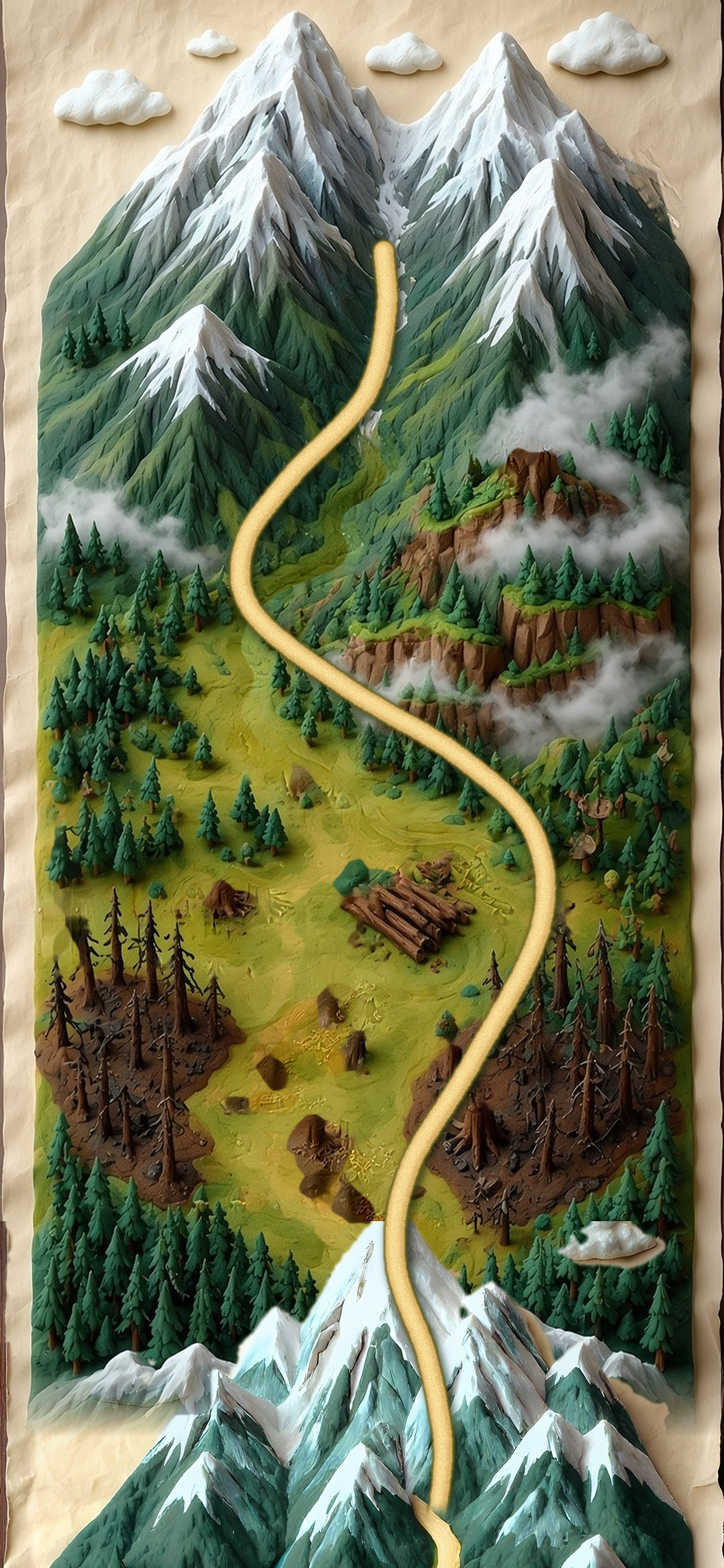
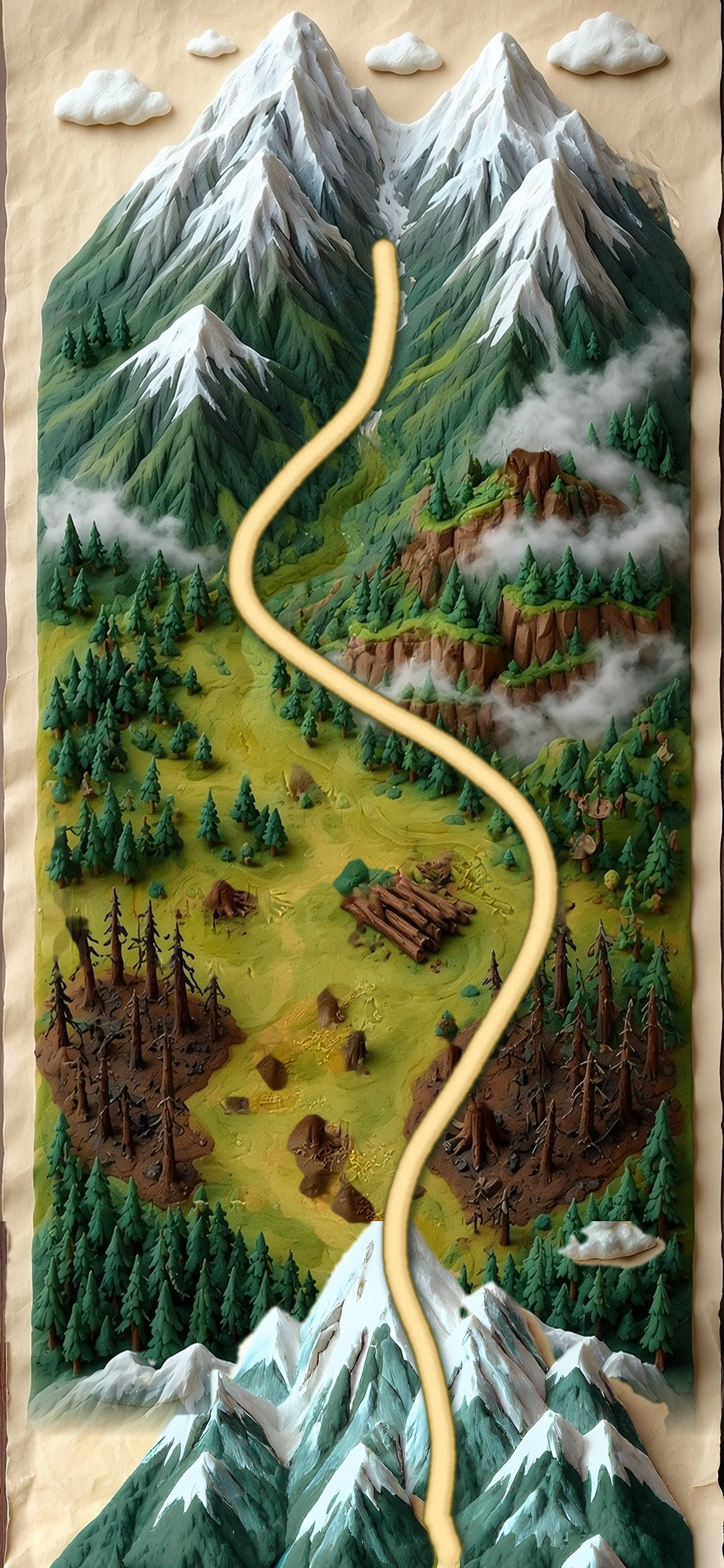
Show one world step count on the mountain sheet and take the v3 road color.
Place tags add the chapter origin once, so Gar reads 22800 and the hero
reads 22419. The saddle stays 20000. The footer keeps 2419 of 25000 and
names it as chapter 2. The v3 painting covers the valley in the overlap.

Changed region(s): [[0.3077, 0.156, 0.7692, 0.9984]]

diff --git a/Postman/UI/MapScreen.swift b/Postman/UI/MapScreen.swift
@@ -50,6 +50,7 @@ struct MapScreen: View {
                         let global = game.chapter.startStep + step
                         let heroOnMountain = atlas.mountains != nil && global >= MountainPlaces.globalStart
                         ZStack(alignment: .topLeading) {
+                            // Долина снизу. Горы непрозрачным кадром сверху: в перекрытии нет смешения, иначе шов двоится.
                             mapLayer(map, road: road, m: m, drawHero: !heroOnMountain)
                                 .offset(x: m.length(atlas.valleyOrigin.x), y: m.length(atlas.valleyOrigin.y))
                             if let mountains = atlas.mountains {
@@ -153,6 +154,7 @@ struct MapScreen: View {
             }
             ForEach(map.settlements, id: \.id) { place in
                 if let c = layout.tags[place.id] {
+                    // step Долины уже мировой: Седло 20 000. Второй раз globalStart не прибавляется.
                     tag(place.name, place.step == 0 ? L10n.text("map.start") : Format.steps(place.step) + " " + L10n.text("abbr.steps"), at: c,
                         dim: place.step > sheetStep && place.id != next?.id,
                         rotation: place.step / 100 % 2 == 0 ? -3 : 3, m: m)
@@ -341,7 +343,7 @@ struct MapScreen: View {
                 .accessibilityLabel(place.name)
                 .accessibilityAddTraits(.isButton)
             if let c = tags.tags[place.id] {
-                tag(place.name, Format.steps(place.step) + " " + L10n.text("abbr.steps"), at: c,
+                tag(place.name, Format.steps(WorldSteps.shown(local: place.step, origin: sheet.globalStart)) + " " + L10n.text("abbr.steps"), at: c,
                     dim: !been && place.id != next?.id, rotation: place.step / 100 % 2 == 0 ? -3 : 3, m: m)
                     .onTapGesture { openMountain(place, sheet: sheet, global: global) }
             }
@@ -355,7 +357,7 @@ struct MapScreen: View {
                 .onTapGesture { openPostman() }
                 .accessibilityLabel(L10n.text("app.name"))
                 .accessibilityAddTraits(.isButton)
-            tag(L10n.text("map.you"), Format.steps(local) + " " + L10n.text("abbr.steps"),
+            tag(L10n.text("map.you"), Format.steps(WorldSteps.shown(local: local, origin: sheet.globalStart)) + " " + L10n.text("abbr.steps"),
                 at: tags.postmanTag, dim: false, rotation: 5, m: m)
                 .onTapGesture { openPostman() }
         }
@@ -422,9 +424,11 @@ struct MapScreen: View {
                 .lineLimit(1).minimumScaleFactor(0.5)
                 .frame(width: 270 * f)
                 .position(x: 225 * f, y: 80 * f)
-            Text(valleySheet || mountains
-                 ? L10n.plural("map.stepWord", min(step, total)) + " · " + L10n.format("map.day", dayNumber)
-                 : L10n.format("map.elsewhere", game.chapter.title, Format.steps(step)))
+            Text(mountains && !valleySheet
+                 ? L10n.format("map.chapterProgress", game.chapter.id, dayNumber)
+                 : valleySheet
+                    ? L10n.plural("map.stepWord", min(step, total)) + " · " + L10n.format("map.day", dayNumber)
+                    : L10n.format("map.elsewhere", game.chapter.title, Format.steps(step)))
                 .font(Ink.label(36 * f))
                 .foregroundStyle(Ink.brown.opacity(0.8))
                 .lineLimit(1).minimumScaleFactor(0.5)

diff --git a/Postman/Model/MapAtlas.swift b/Postman/Model/MapAtlas.swift
@@ -19,6 +19,12 @@ enum MapJoin {
     }
 }
 
+/// Подпись на общем свитке. Долина в JSON уже от Почты (0). Горы в JSON — от Седла,
+/// поэтому на бирке к ним один раз прибавляется globalStart. Седло остаётся 20 000, не 40 000.
+enum WorldSteps {
+    static func shown(local: Int, origin: Int) -> Int { origin + local }
+}
+
 /// Шаги мест главы 2. Других поселений на этом листе нет.
 enum MountainPlaces {
     static let steps: [String: Int] = [

diff --git a/tools/install_mountains_v2.py b/tools/install_mountains_v2.py
@@ -417,11 +417,17 @@ def main():
     t0 = local / 25000 + 230 / length
     soft = 150 / length
     revealed = blend_progress(color, pencil, field_img, t0, soft)
-    stack = Image.new("RGBA", (W, int(VALLEY_ORIGIN_Y + H)), (0, 0, 0, 255))
-    stack.paste(Image.open(MAP / "map_color.jpg").convert("RGB"), (0, int(VALLEY_ORIGIN_Y)))
+    height = int(VALLEY_ORIGIN_Y + H)
+    valley_rgb = Image.open(MAP / "map_color.jpg").convert("RGB")
+    # Горы кладутся сверху непрозрачным кадром. Смешивать с верхом Долины нельзя: шов двоится.
+    plain = Image.new("RGBA", (W, height), (0, 0, 0, 255))
+    plain.paste(valley_rgb, (0, int(VALLEY_ORIGIN_Y)))
+    plain.paste(color.convert("RGB"), (0, 0))
+    stack = Image.new("RGBA", (W, height), (0, 0, 0, 255))
+    stack.paste(valley_rgb, (0, int(VALLEY_ORIGIN_Y)))
     stack.paste(revealed, (0, 0))
 
-    # Облака только на текущем пороге.
+    # Облака только на текущем пороге телефонного кадра.
     level = int(round(t0 / 1.1 * 120))
     level = min(max(level, 0), len(puffs) - 1)
     fog = Image.open(MAP / "fog.png").convert("RGBA")
@@ -434,46 +440,57 @@ def main():
         paste_rgba(stack, sprite, (item[0] - fw / 2, item[1] - fh / 2))
 
     draw = ImageDraw.Draw(stack)
+    ImageDraw.Draw(plain)
     valley_map = json.loads((MAP / "map.json").read_text(encoding="utf-8"))
     valley_road = valley_map["road"]
     valley_cum = cumulative(valley_road)
     valley_pts = [point_at(valley_road, valley_cum, i / 80) for i in range(81)]
     valley_pts = [(p[0], p[1] + VALLEY_ORIGIN_Y) for p in valley_pts]
     draw_dashes(draw, valley_pts)
+    draw_dashes(ImageDraw.Draw(plain), valley_pts)
     walked = []
     steps_n = 40
     for i in range(steps_n + 1):
         walked.append(point_at(road, cum, (2419 / 25000) * i / steps_n))
     draw_dashes(draw, walked)
+    draw_dashes(ImageDraw.Draw(plain), road)
 
     valley_places = []
     for raw in valley_map["settlements"]:
         valley_places.append({**raw, "y": raw["y"] + VALLEY_ORIGIN_Y,
                               "road": [raw["road"][0], raw["road"][1] + VALLEY_ORIGIN_Y]})
     for place in valley_places:
-        paste_icon(stack, MAP / f"icon_{place['id']}.png", place, "visited")
-        stake(stack, place["road"], True)
+        for canvas in (stack, plain):
+            paste_icon(canvas, MAP / f"icon_{place['id']}.png", place, "visited")
+            stake(canvas, place["road"], True)
     vtags, _ = layout_tags(
         [{**p, "y": p["y"] - VALLEY_ORIGIN_Y} for p in valley_places],
         (0, -1000), False, 20000, None, frame=(W, H))
     for place in valley_places:
         center = vtags[place["id"]]
-        draw_tag(stack, (center[0], center[1] + VALLEY_ORIGIN_Y), place["name"],
-                 (grouped(place["step"]) if place["step"] else "старт") + (" ш." if place["step"] else ""),
-                 dim=False, rotation=-3 if place["step"] // 100 % 2 == 0 else 3)
+        label = (grouped(place["step"]) if place["step"] else "старт") + (" ш." if place["step"] else "")
+        for canvas in (stack, plain):
+            draw_tag(canvas, (center[0], center[1] + VALLEY_ORIGIN_Y), place["name"], label,
+                     dim=False, rotation=-3 if place["step"] // 100 % 2 == 0 else 3)
 
     for place in places:
         kind = "next" if place["id"] == "gar" else "ghost"
+        world = grouped(20000 + place["step"]) + " ш."
         paste_icon(stack, MAP / f"icon_{place['id']}.png", place, kind)
         stake(stack, place["road"], False)
-        draw_tag(stack, tags[place["id"]], place["name"], grouped(place["step"]) + " ш.",
+        draw_tag(stack, tags[place["id"]], place["name"], world,
                  dim=place["id"] != "gar", rotation=-3 if place["step"] // 100 % 2 == 0 else 3)
+        paste_icon(plain, MAP / f"icon_{place['id']}.png", place, "visited")
+        stake(plain, place["road"], True)
+        draw_tag(plain, tags[place["id"]], place["name"], world,
+                 dim=False, rotation=-3 if place["step"] // 100 % 2 == 0 else 3)
     post = Image.open(MAP / "postman.png").convert("RGBA").resize((87, 230), Image.Resampling.LANCZOS)
-    paste_rgba(stack, post, (hero[0] + 4 - 43, hero[1] + 14 - 230))
-    draw_tag(stack, you, "Вы здесь", grouped(2419) + " ш.", dim=False, rotation=5)
+    for canvas in (stack, plain):
+        paste_rgba(canvas, post, (hero[0] + 4 - 43, hero[1] + 14 - 230))
+        draw_tag(canvas, you, "Вы здесь", grouped(22419) + " ш.", dim=False, rotation=5)
 
     OUT.mkdir(parents=True, exist_ok=True)
-    stack.convert("RGB").save(OUT / "mountains_valley_full.jpg", quality=86)
+    plain.convert("RGB").save(OUT / "mountains_valley_full.jpg", quality=86)
     # Телефон: вертикально к герою, по горизонтали лист не сдвигается (ширина кадра = ширина листа).
     top = int(round(-(H / 2 - hero[1])))
     phone = stack.crop((0, top, W, top + H)).convert("RGBA")
@@ -510,9 +527,9 @@ def draw_phone_chrome(phone):
     tag = tag.resize((int(tag.width * tscale), int(tag.height * tscale)), Image.Resampling.LANCZOS)
     tag = tag.rotate(3, expand=True, resample=Image.Resampling.BICUBIC)
     tdraw = ImageDraw.Draw(tag)
-    tdraw.text((tag.width / 2, tag.height * 0.38), f"{grouped(2419)} из {grouped(25000)}",
-               font=font(FONTS / "YesevaOne.ttf", 28), fill=BROWN, anchor="mm")
-    tdraw.text((tag.width / 2, tag.height * 0.58), "шаг 2 419",
+    tdraw.text((tag.width / 2, tag.height * 0.36), f"{grouped(2419)} из {grouped(25000)}",
+               font=font(FONTS / "YesevaOne.ttf", 26), fill=BROWN, anchor="mm")
+    tdraw.text((tag.width / 2, tag.height * 0.58), "шаги главы 2",
                font=font(FONTS / "Kurale.ttf", 22), fill=BROWN, anchor="mm")
     paste_rgba(phone, tag, (300 - tag.width / 2, 2380 - tag.height / 2))
 
@@ -523,5 +540,116 @@ def draw_phone_chrome(phone):
     paste_rgba(phone, arrow, (1136 - 350 - 24, 2470 - 197 - 24))
 
 
+def render_installed(color_src=None):
+    """Пересчитать карандаш и поле от уже стоящего JSON и нового цвета. JSON мест не трогать."""
+    if color_src:
+        shutil.copy2(color_src, MAP / "mountains_color.jpg")
+    doc = json.loads((MAP / "mountains.json").read_text(encoding="utf-8"))
+    road = doc["road"]
+    cum = cumulative(road)
+    length = cum[-1]
+    color = Image.open(MAP / "mountains_color.jpg")
+    pencil = pencil_from_color(color)
+    pencil.save(MAP / "mountains_pencil.jpg", quality=90)
+    field_img, _field, _length = encode_field(road)
+    field_img.save(MAP / "mountains_field.png")
+    places = doc["settlements"]
+    hero = point_at(road, cum, 2419 / 25000)
+    tags, you = layout_tags(places, hero, True, 2419, "gar")
+    puffs = doc["puffs"]["points"]
+    # Локальный хвост main() завязан на свои переменные. Здесь только проверка чисел.
+    shown = {p["id"]: 20000 + p["step"] for p in places}
+    expect = {"gar": 22800, "penki": 26500, "khomut": 31000, "repka": 35500,
+              "krivulya": 36500, "gorlovina": 44000}
+    if shown != expect:
+        raise SystemExit(f"world labels drifted: {shown}")
+    if "sedlo" in shown:
+        raise SystemExit("saddle would be labeled twice")
+    print("hero world", 22419, "point", [round(v, 1) for v in hero], "pencil", pencil.size)
+    # Полный проход через main не нужен: рисуем тем же compose, вызвав main-хук ниже.
+    globals_for_paint = dict(road=road, cum=cum, length=length, color=color, pencil=pencil,
+                             field_img=field_img, puffs=puffs, places=places, hero=hero, tags=tags, you=you)
+    paint_installed(globals_for_paint)
+
+
+def paint_installed(g):
+    road, cum, length = g["road"], g["cum"], g["length"]
+    color, pencil, field_img, puffs = g["color"], g["pencil"], g["field_img"], g["puffs"]
+    places, hero, tags, you = g["places"], g["hero"], g["tags"], g["you"]
+    local = 2419
+    t0 = local / 25000 + 230 / length
+    soft = 150 / length
+    revealed = blend_progress(color, pencil, field_img, t0, soft)
+    height = int(VALLEY_ORIGIN_Y + H)
+    valley_rgb = Image.open(MAP / "map_color.jpg").convert("RGB")
+    plain = Image.new("RGBA", (W, height), (0, 0, 0, 255))
+    plain.paste(valley_rgb, (0, int(VALLEY_ORIGIN_Y)))
+    plain.paste(color.convert("RGB"), (0, 0))
+    stack = Image.new("RGBA", (W, height), (0, 0, 0, 255))
+    stack.paste(valley_rgb, (0, int(VALLEY_ORIGIN_Y)))
+    stack.paste(revealed, (0, 0))
+    level = int(round(t0 / 1.1 * 120))
+    level = min(max(level, 0), len(puffs) - 1)
+    fog = Image.open(MAP / "fog.png").convert("RGBA")
+    for item in puffs[level]:
+        fw = int(item[2])
+        fh = int(item[2] * 247 / 360)
+        sprite = fog.resize((max(1, fw), max(1, fh)), Image.Resampling.LANCZOS)
+        if item[3] > 0.5:
+            sprite = sprite.transpose(Image.Transpose.FLIP_LEFT_RIGHT)
+        paste_rgba(stack, sprite, (item[0] - fw / 2, item[1] - fh / 2))
+    valley_map = json.loads((MAP / "map.json").read_text(encoding="utf-8"))
+    valley_road = valley_map["road"]
+    valley_cum = cumulative(valley_road)
+    valley_pts = [(p[0], p[1] + VALLEY_ORIGIN_Y) for p in (point_at(valley_road, valley_cum, i / 80) for i in range(81))]
+    for canvas, pts in ((stack, valley_pts), (plain, valley_pts)):
+        draw_dashes(ImageDraw.Draw(canvas), pts)
+    walked = [point_at(road, cum, (2419 / 25000) * i / 40) for i in range(41)]
+    draw_dashes(ImageDraw.Draw(stack), walked)
+    draw_dashes(ImageDraw.Draw(plain), road)
+    valley_places = []
+    for raw in valley_map["settlements"]:
+        valley_places.append({**raw, "y": raw["y"] + VALLEY_ORIGIN_Y,
+                              "road": [raw["road"][0], raw["road"][1] + VALLEY_ORIGIN_Y]})
+    vtags, _ = layout_tags(
+        [{**p, "y": p["y"] - VALLEY_ORIGIN_Y} for p in valley_places],
+        (0, -1000), False, 20000, None, frame=(W, H))
+    for place in valley_places:
+        label = (grouped(place["step"]) if place["step"] else "старт") + (" ш." if place["step"] else "")
+        for canvas in (stack, plain):
+            paste_icon(canvas, MAP / f"icon_{place['id']}.png", place, "visited")
+            stake(canvas, place["road"], True)
+            center = vtags[place["id"]]
+            draw_tag(canvas, (center[0], center[1] + VALLEY_ORIGIN_Y), place["name"], label,
+                     dim=False, rotation=-3 if place["step"] // 100 % 2 == 0 else 3)
+    for place in places:
+        world = grouped(20000 + place["step"]) + " ш."
+        kind = "next" if place["id"] == "gar" else "ghost"
+        paste_icon(stack, MAP / f"icon_{place['id']}.png", place, kind)
+        stake(stack, place["road"], False)
+        draw_tag(stack, tags[place["id"]], place["name"], world, dim=place["id"] != "gar",
+                 rotation=-3 if place["step"] // 100 % 2 == 0 else 3)
+        paste_icon(plain, MAP / f"icon_{place['id']}.png", place, "visited")
+        stake(plain, place["road"], True)
+        draw_tag(plain, tags[place["id"]], place["name"], world, dim=False,
+                 rotation=-3 if place["step"] // 100 % 2 == 0 else 3)
+    post = Image.open(MAP / "postman.png").convert("RGBA").resize((87, 230), Image.Resampling.LANCZOS)
+    for canvas in (stack, plain):
+        paste_rgba(canvas, post, (hero[0] + 4 - 43, hero[1] + 14 - 230))
+        draw_tag(canvas, you, "Вы здесь", grouped(22419) + " ш.", dim=False, rotation=5)
+    OUT.mkdir(parents=True, exist_ok=True)
+    plain.convert("RGB").save(OUT / "mountains_valley_full.jpg", quality=86)
+    top = int(round(-(H / 2 - hero[1])))
+    phone = stack.crop((0, top, W, top + H)).convert("RGBA")
+    draw_phone_chrome(phone)
+    phone.convert("RGB").save(OUT / "mountains_phone_hero.jpg", quality=88)
+    stack.crop((0, 1900, W, 2400)).convert("RGB").save(OUT / "mountains_detail_gar.jpg", quality=90)
+    print("wrote", OUT)
+
+
 if __name__ == "__main__":
-    main()
+    import sys
+    if len(sys.argv) > 1 and sys.argv[1] == "--installed":
+        render_installed(sys.argv[2] if len(sys.argv) > 2 else None)
+    else:
+        main()

diff --git a/tools/check_mountains_art.py b/tools/check_mountains_art.py
@@ -96,9 +96,45 @@ if abs(c - p).mean() < 40 or p.mean() < c.mean():
 valley = np.array(Image.open(MAP / "map_color.jpg").crop((0, 0, 1170, 560)))
 band = np.array(color.crop((0, 1972, 1170, 2532)))
 drift = float(np.abs(valley.astype(np.int16) - band.astype(np.int16)).mean())
-print(f"seam mean channel drift {drift:.1f} (v2 color, not repainted here)")
+print(f"full overlap mean channel drift {drift:.1f} (upper parchment is replaced by the mountains; not repainted here)")
+
+ids_m = [s["id"] for s in doc["settlements"]]
+if "sedlo" in ids_m:
+    fail("the saddle is on the valley sheet; a second tag would double step 20000")
+valley_doc = json.loads((MAP / "map.json").read_text(encoding="utf-8"))
+sedlo = next(s for s in valley_doc["settlements"] if s["id"] == "sedlo")
+if sedlo["step"] != 20000:
+    fail("valley saddle step must stay 20000")
+shown = {s["id"]: doc["globalStart"] + s["step"] for s in doc["settlements"]}
+expect_world = {
+    "gar": 22800, "penki": 26500, "khomut": 31000,
+    "repka": 35500, "krivulya": 36500, "gorlovina": 44000,
+}
+if shown != expect_world:
+    fail(f"world labels {shown}")
+if doc["globalStart"] + 2419 != 22419:
+    fail("hero world step")
+if doc["globalStart"] + doc["lengthSteps"] != 45000:
+    fail("chapter end is not 45000")
+# Локальные шаги в JSON не переписываются в мировые.
+if anchors["gar"]["step"] != 2800:
+    fail("local gar step was rewritten")
 
 screen = (ROOT / "Postman/UI/MapScreen.swift").read_text(encoding="utf-8")
+if "WorldSteps.shown(local: place.step, origin: sheet.globalStart)" not in screen:
+    fail("mountain tags must add globalStart once")
+if "WorldSteps.shown(local: local, origin: sheet.globalStart)" not in screen:
+    fail("the hero tag must show the world step")
+if screen.find("mapLayer(") > screen.find("mountainLayer("):
+    fail("the mountain sheet must be drawn after the valley sheet, covering the overlap")
+atlas = (ROOT / "Postman/Model/MapAtlas.swift").read_text(encoding="utf-8")
+if "origin + local" not in atlas:
+    fail("world step display is origin plus the sheet-local step")
+ru = (ROOT / "Postman/Resources/ru.lproj/Localizable.strings").read_text(encoding="utf-8")
+en = (ROOT / "Postman/Resources/en.lproj/Localizable.strings").read_text(encoding="utf-8")
+if "map.chapterProgress" not in ru or "map.chapterProgress" not in en or "map.chapterProgress" not in screen:
+    fail("the footer must name the chapter, not a bare step count")
+
 if "map.notDrawn" not in screen.split("drawHero")[0]:
     pass
 if "mountainPicture" not in screen or "revealThreshold" not in screen:
